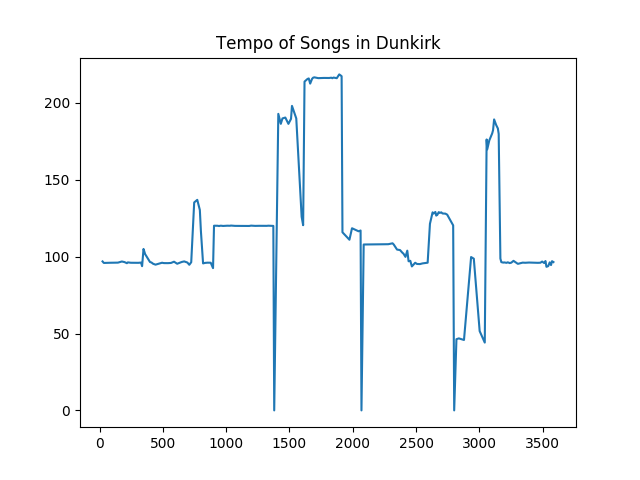
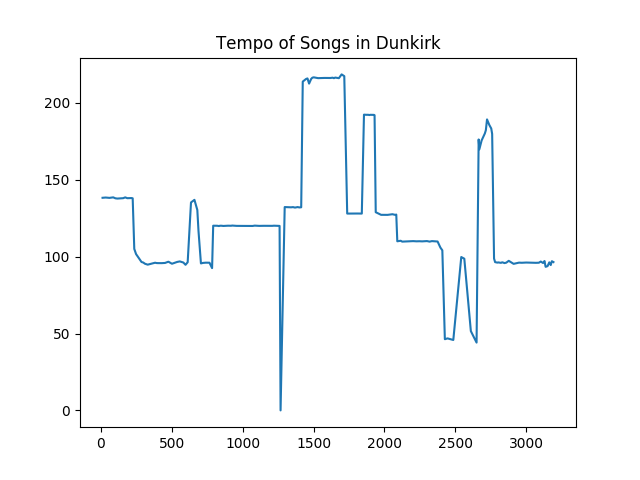
more grapjs

diff --git a/src/extras.py b/src/extras.py
@@ -95,7 +95,7 @@ def tempoGraph(sp,albumID):
 		album = sp.album_tracks(albumID)#dunkirk album
 		#get songs from the album
 		for songs in album['items']:
-			songID = userProf.getSongID(sp, songs['name']+' dunkirk')
+			songID = userProf.getSongID(sp, songs['name'])
 			tempo.append(songStats.getTempo(sp, songID))
 			analysis = sp.audio_analysis(songID)		
 			for items in analysis['sections']:

diff --git a/src/main.py b/src/main.py
@@ -117,7 +117,7 @@ def main(args):
 		#songName = input("Song name: ")
 		#songID = userProf.getSongID(sp, songName)
 		
-		extras.tempoGraph(sp, albumID=None)
+		extras.tempoGraph(sp, albumID=None)#'5kSUsy5FU3Wcxd4DBvXFm4')
 		#extras.showTimeSig(sp, songID)
 		#songStats.reversRec(sp, username)
 		#extras.tempoGraph(sp,albumID = None)
